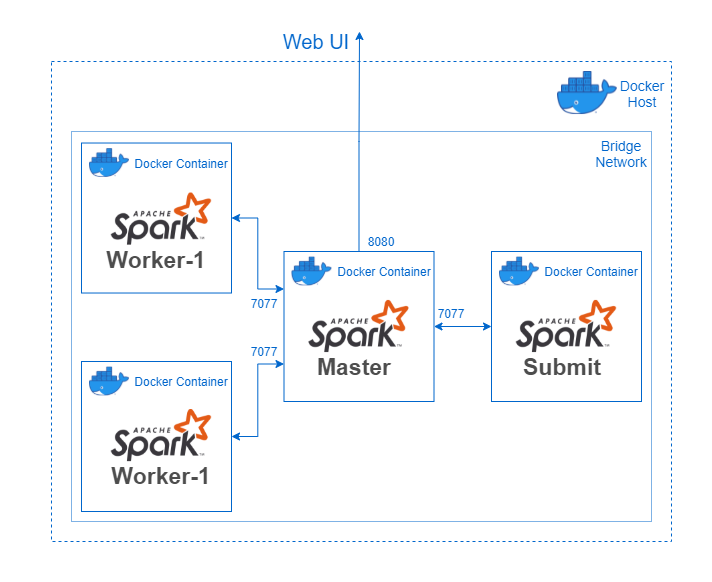
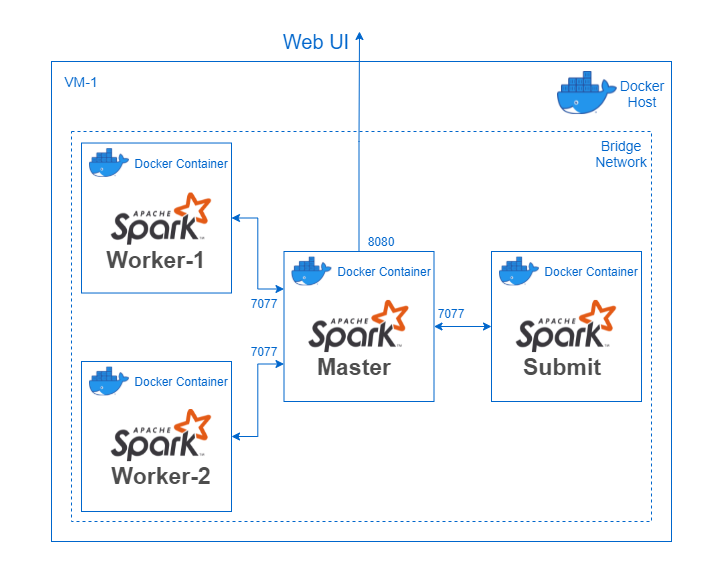
Updated multi-host docs

Changed region(s): [[0.2781, 0.8041, 0.309, 0.8351], [0.0927, 0.1237, 0.1236, 0.1546]]

diff --git a/docs/docker-spark-get-started.md b/docs/docker-spark-get-started.md
@@ -1,21 +1,93 @@
 # Spocker - Multi-Host Dockerized Spark using Docker Swarm
 
-Hi there, this a step-by-step guide to get a Dockerized Spark (StandAlone) up-and-running on a cluster using the Docker Swarm which is a multi-host container orchestartion tool.
+This a step-by-step guide to get a containerized Spark (Standalone) up-and-running on a cluster using  Docker Swarm which is a multi-host container orchestartion tool.
 
 
 ## Requirements
-- Multiple VMs (atleast 2) on the same network, with internet access on atleast one VM.
-- Docker installed on each VM.
+- Multiple nodes/VMs (atleast 2) on the same network, with internet access on atleast one VM.
+- Docker installed on each node/VM.
 
 ## Steps
 
 1. Setup a Docker swarm on the connected VMs.
-2. Deploy the dockerized Spark stack from the Docker Swarm Manager/Leader.
+2. Deploy the dockerized Spark `stack` from the Docker Swarm Manager/Leader.
 3. Submit a spark-job to the Spark cluster.
 
 
 ## 1. Setup Docker Swarm
 
+* Designate one of the node/VM as swarm Manager/Leader. On the Swarm Leader run:
+
+```docker
+docker swarm init
+```
+
+This will initialize the node/vm as the Swarm Leader, along with an `join-token` to join the swarm:
+
+![](../images/docker-swarm-init-output.png)
+
+* On all the other nodes/VMs run the following command to join the Docker swarm:
+
+```docker
+# Run on all other nodes/VMs except, Swarm Leader
+docker swarm join --token <swarm-join-token> <swarm-leader-ip>:<port>
+```
+
+* Verify that all nodes/VMs have joined the Swarm, run:
+
+```docker
+docker node ls
+```
+
+You should get an output similar to below, listing all the nodes in the Swarm and indicating the Swarm Leader:
+
+![](../images/docker-node-ls-output.png)
+
 ## 2. Deploy Spark to Docker Swarm
 
+Spark can be deployed across all nodes/VMs inside the Docker Swarm by executing the compose file with the following command:
+NOTE: Execute the command ONLY on the Swarm Leader/Manager
+
+```bash
+# Create an environment variable `SPARK_MASTER_IP`, on the Swarm Leader, when the Spark Master will run
+export SPARK_MASTER_IP=$(hostname -I | awk '{print $1}')
+```
+
+
+```docker
+# Run this ONLY on the Swarm Leader 
+docker stack deploy spocker --compose-file spark/docker-compose.yml
+```
+
+This will start the following containers :
+- 1 X Spark-Master: WebUI @ <SWARM-LEADER-IP>:8080
+- 1 X Spark-Worker on each Swarm Worker Node: WEBUI @ <WORKER-NODE-IP>:8080
+
+![](../images/spocker-multi-host-architecture.png)
+
+NOTE: This `docker stack` deployment configuration exposes the containers to the `host network` i.e. no software network emulation is performed by docker. It may be noted that this deployment can also fully function with an `overlay network`.
+
 ## 3. Submit a Spark job
+
+
+Start the spark-submit container, providing the SPARK_MASTER_URL and JOB_PATH.<br>
+The contianer will run till the submitted spark-job's life, hosting the spark-driver inside it.
+
+Run the following command on the `Swarm Leader`:
+
+```bash
+docker run -it \
+--network host \
+--mount type=bind,src=$(pwd),dst=/spocker/ \
+-e JOB_PATH=/spocker/spark/spark-test-job/spark_submit_test_pi.py \
+-e SPARK_MASTER_URL=spark://$SPARK_MASTER_IP:7077 \
+-e DRIVER_CORES=1 \
+-e DRIVER_MEMORY=4g \
+-e NUM_EXECUTORS=1 \
+-e EXECUTOR_CORES=1 \
+-e EXECUTOR_MEMORY=500m \
+elaaf/spark-submit
+```
+The `--mount` command will mount (bind-type) the current directory at the path `/spocker/` inside the spark-submit docker container.<br>
+This allows the container to access the code/py-files inside the mounted directory.<br>
+The Spark WebUI will show a running application and will move it to completed on completion.

diff --git a/README.md b/README.md
@@ -28,7 +28,7 @@ Install docker from [here](https://docs.docker.com/engine/install/) if required.
 
 ## Single-Host Spark Standalone
 
-For a single-node Spark Standalone setup, run the following commands.
+To deploy and run Spark (Standalone) inside a single machine(host), run the following commands.
 This runs the spark-master, and spark-worker containers on the same machine/docker-host.
 
 ### 1. Clone this repo
@@ -62,12 +62,6 @@ If the deployement was successful, the Spark WebUI should be accessible @ YOUR-I
 
 ### 3. Submit a job to the single-host Spark cluster
 
-Pull the latest spark-submit image.
-
-```bash
-docker pull elaaf/spark-submit:latest
-```
-
 Start the spark-submit container, providing the SPARK_MASTER_URL (optional for single-host: defaults to `spark://spark-master:7077`) and JOB_PATH.<br>
 The contianer will run till the submitted spark-job's life, hosting the spark-driver inside it.
 
@@ -85,6 +79,8 @@ The Spark WebUI will show a running application and will move it to completed on
 
 
 ## Multi-Host Spark Standalone
+
+To deploy and run Spark (Standalone) across a multiple machine(host), follow the following steps:
 
 - Setup the Docker Swarm
 - Execute the `docker stack` deployment configuration
